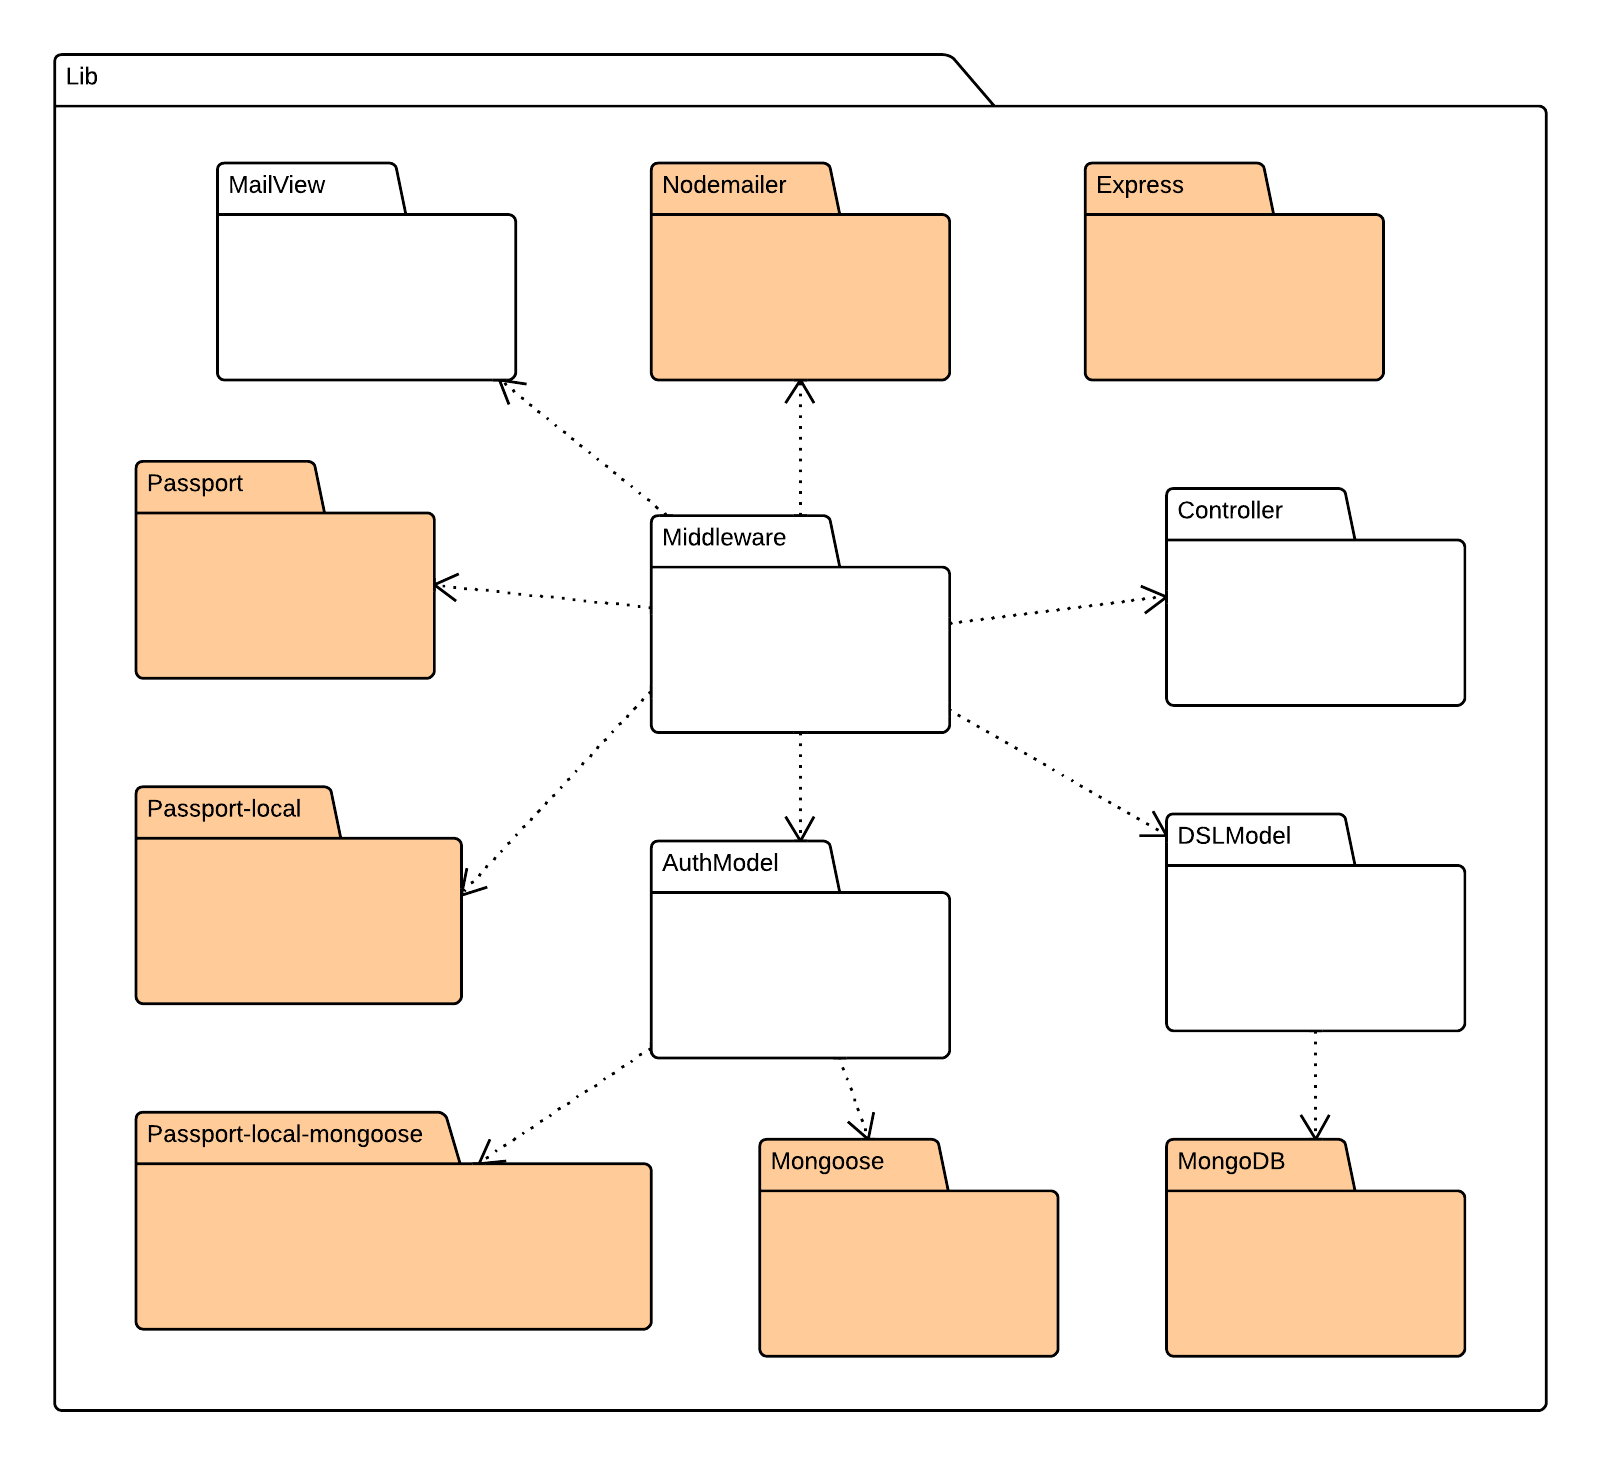
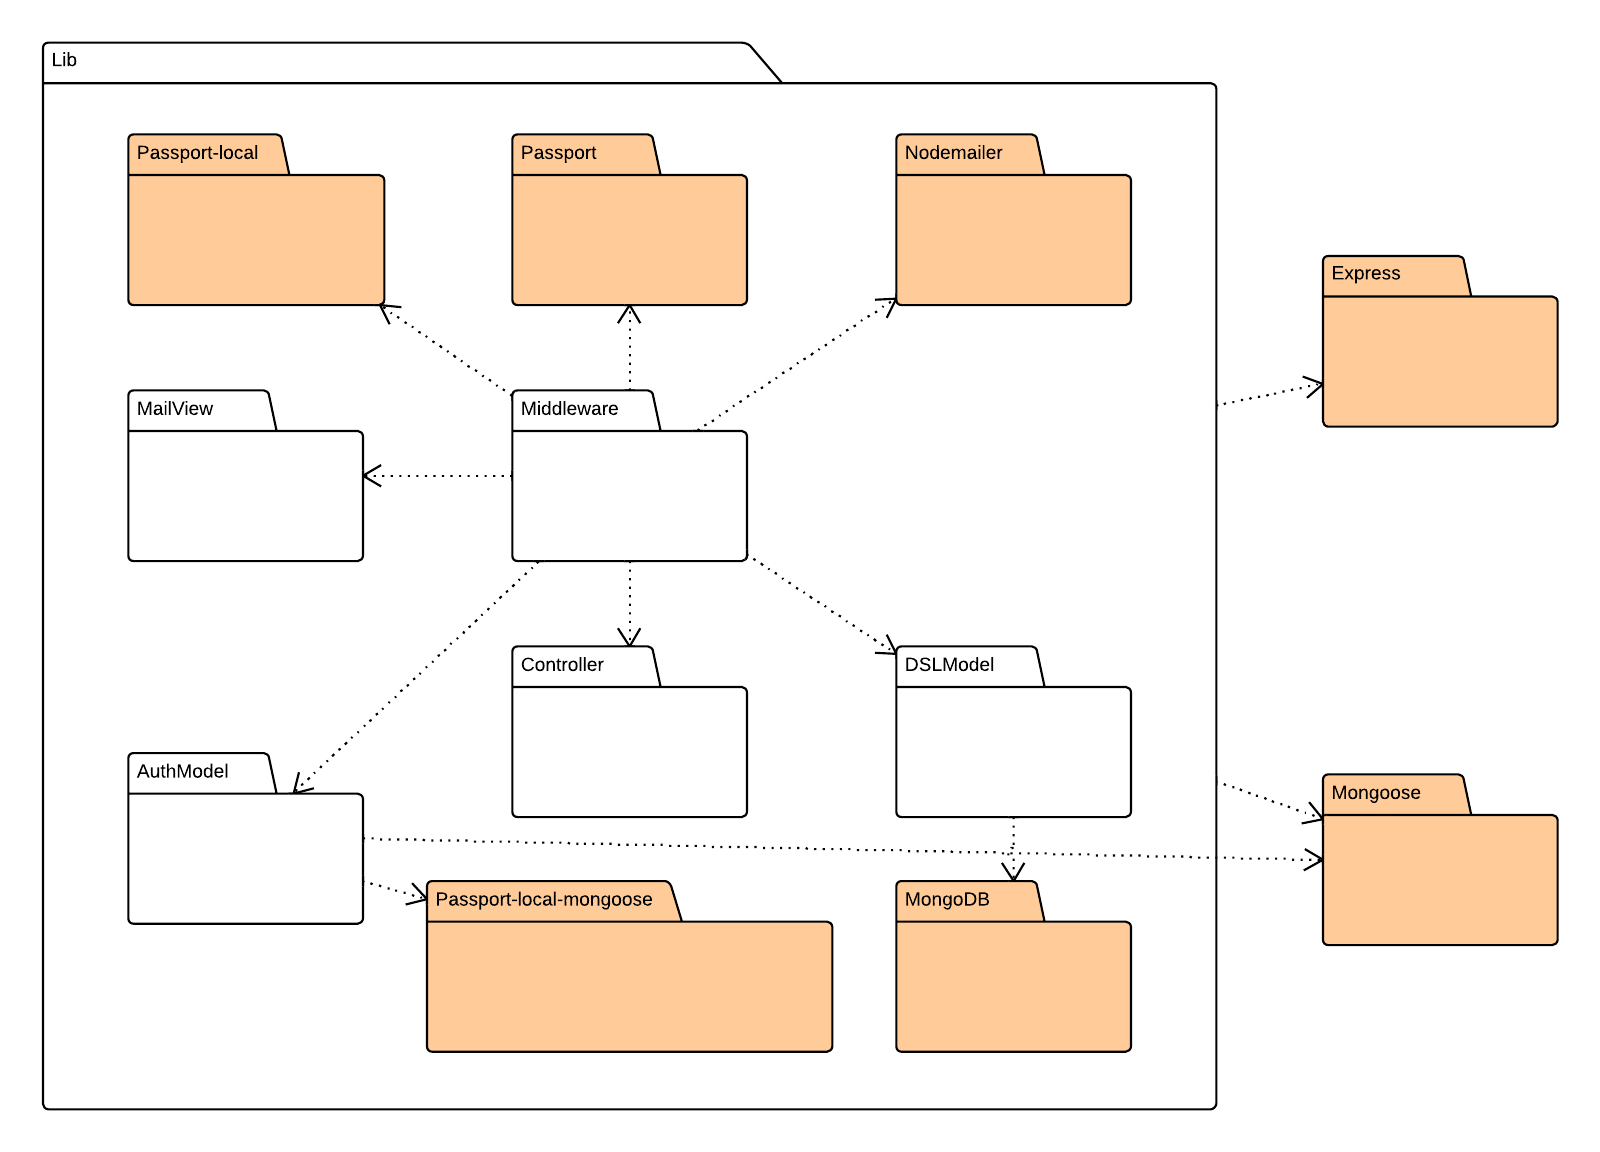
Chiuse issue #115,#120,#129,#130,#131

diff --git a/documenti/SpecificaTecnica/capitolo-back-end.tex b/documenti/SpecificaTecnica/capitolo-back-end.tex
@@ -131,7 +131,7 @@ Segue un elenco ordinato dei middleware utilizzati. L'ordine in cui elaborano la
 \item{ErrorHandler}: \glossario{Middleware} da noi scritto per gestire gli errori sollevati da uno dei precedenti middleware (errore server 500).
 \end{itemize}
 
-Nel seguente diagramma viene rappresentata una generica richiesta al server: utilizzando il pattern della Chain of responsibility, il server invoca in sequenza i middleware, passando come parametri l'oggetto della richiesta, della risposta e una callback per passare il controllo al successivo middleware. In caso di errore, un middleware può chiamare la callback passandogli la descrizione dell'errore come parametro \code{next(error)}. In questo modo il server passerà il controllo al primo middleware in grado di gestire un errore. Come terza alternativa, un middleware può terminare la propria esecuzione con un \code{return}. In tal caso la richiesta non verrà più gestita da nessun altro middleware.
+Nel seguente diagramma viene rappresentata una generica richiesta al server: utilizzando il pattern della Chain of responsibility, il server invoca in sequenza i middleware(ad esempio i middleware Router,Gestore Errore), passando come parametri l'oggetto della richiesta, della risposta e una callback per passare il controllo al successivo middleware. In caso di errore, un middleware può chiamare la callback passandogli la descrizione dell'errore come parametro \code{next(error)}. In questo modo il server passerà il controllo al primo middleware in grado di gestire un errore. Come terza alternativa, un middleware può terminare la propria esecuzione con un \code{return}. In tal caso la richiesta non verrà più gestita da nessun altro middleware.
 
 \begin{figure}[H]
 	\begin{center} 

diff --git a/documenti/SpecificaTecnica/capitolo-definizione-architettura.tex b/documenti/SpecificaTecnica/capitolo-definizione-architettura.tex
@@ -20,6 +20,7 @@ Per descrivere il sistema si è rivelato molto più comodo utilizzare i diagramm
 A posteriori, riteniamo che sarebbe stato molto meglio progettare il sistema seguendo uno stile di scomposizione modulare \emph{orientato alle funzioni}\footnote{Descritto alla sezione 11.3.2 del libro ``Ingegneria del software - Sommerville - 8a edizione (2007)''} o a flusso di dati piuttosto che \emph{a oggetti}. Con questa modifica radicale al metodo di specifica sarebbe stato possibile rappresentare in modo più naturale diverse delle caratteristiche salienti delle tecnologie e librerie utilizzate, che si strutturano meglio come pipeline piuttosto che come classi.
 
 I diagrammi di deployment, dei \glossario{package}, delle classi, di sequenza e di attività presentati di seguito utilizzano la specifica \glossario{UML} 2.0.
+Nei diagrammi dei \glossario{package} in particolare, i package colorati rappresentano librerie esterne.
 
 \subsection{Architettura generale}
 
